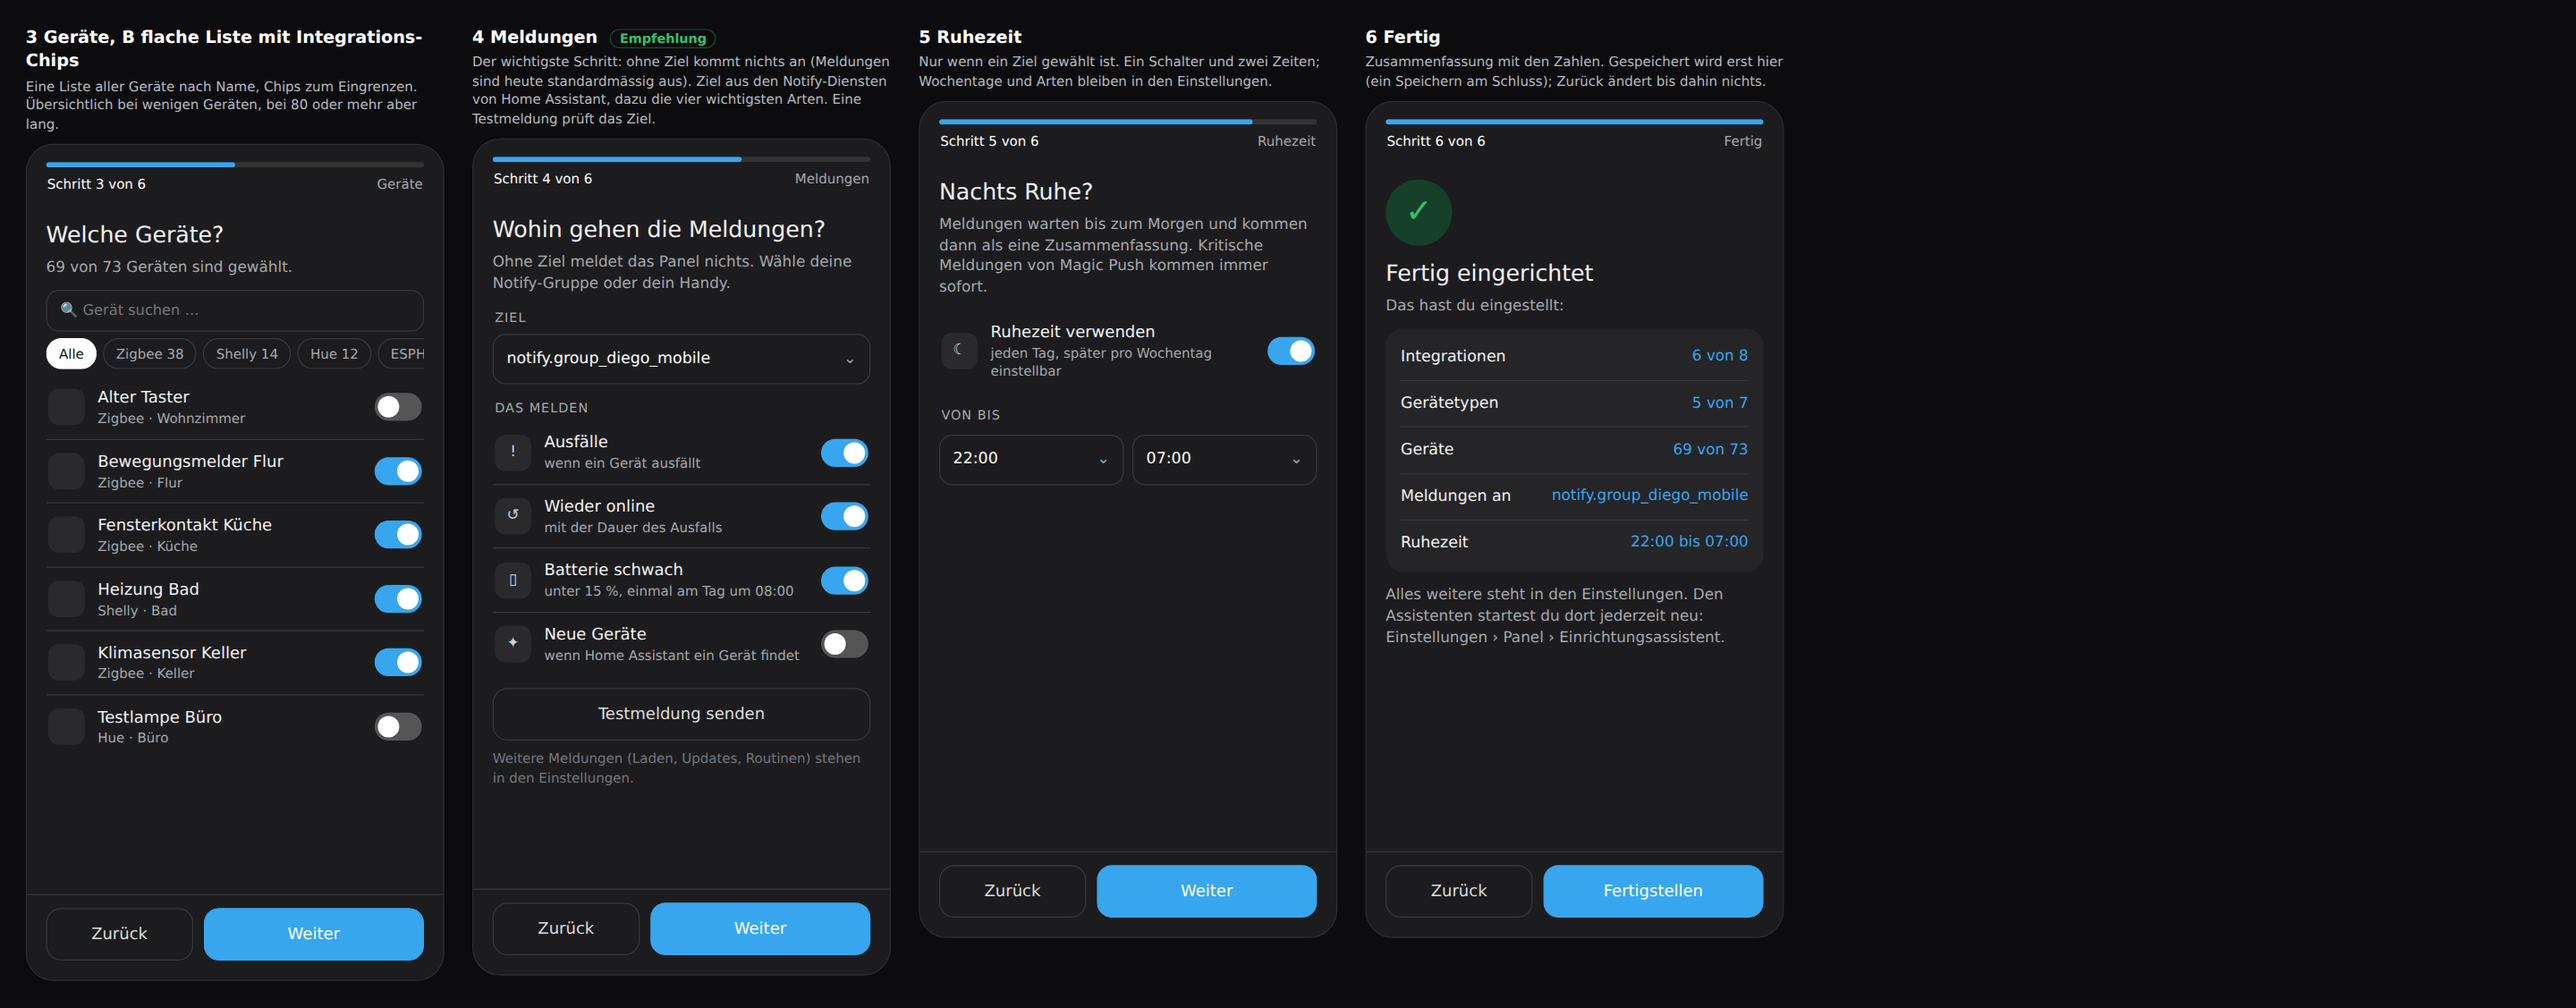
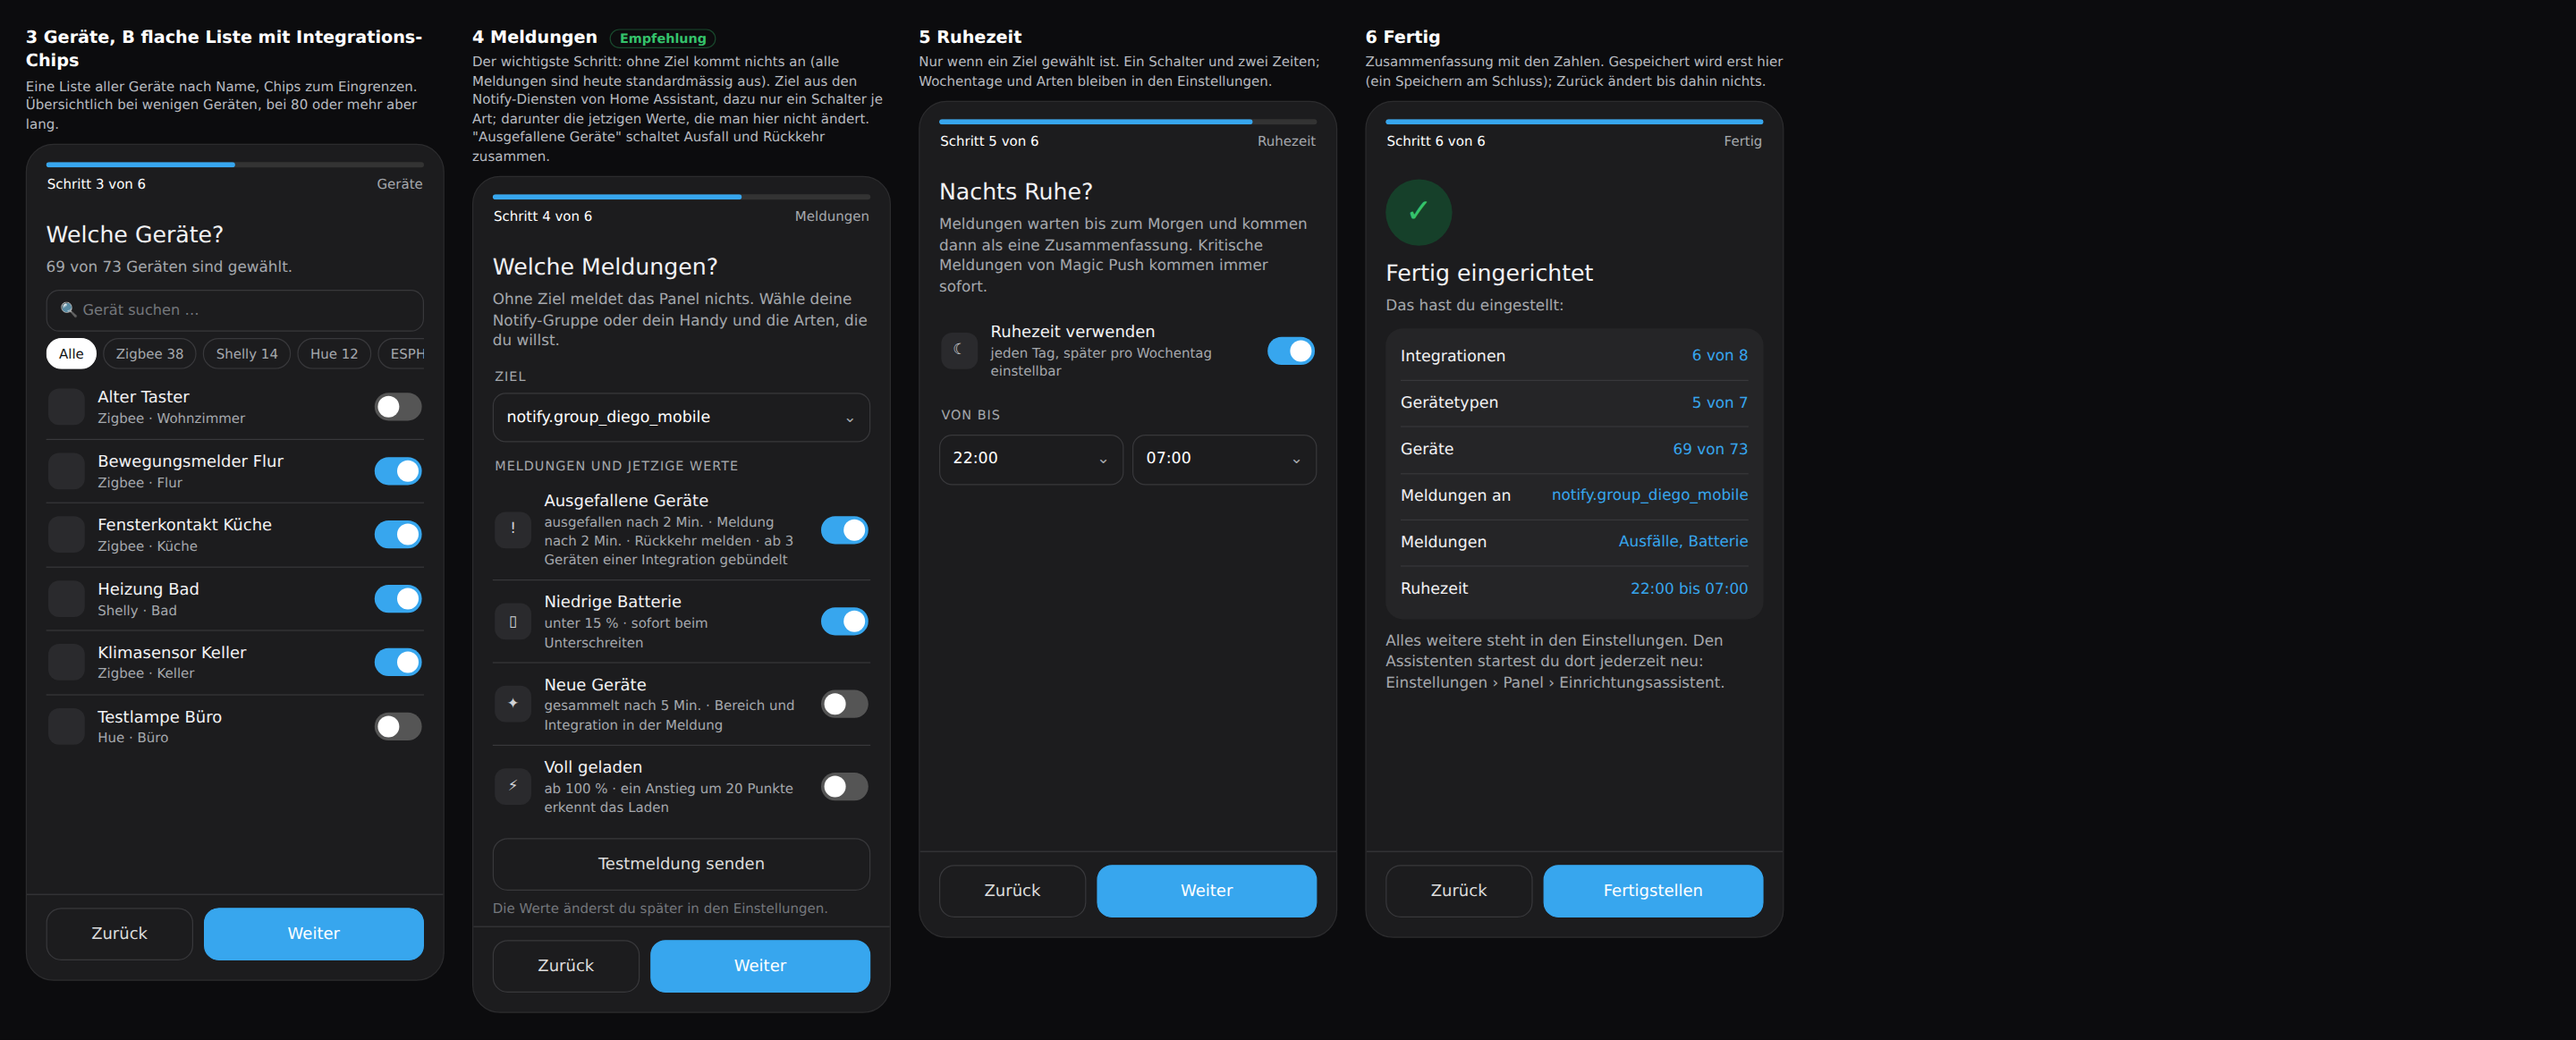
Mockups Einrichtungsassistent: Schritt Meldungen mit Schalter je Art und jetzigen Werten
Claude-Session: https://claude.ai/code/session_01U1q7hu4Br2u4E6fFdEJMgU

diff --git a/docs/mockups/wizard-v1/src/2.html b/docs/mockups/wizard-v1/src/2.html
@@ -1,10 +1,10 @@
 <!doctype html><meta charset=utf-8><link rel=stylesheet href=base.css><link rel=stylesheet href=extra.css><link rel=stylesheet href=wizard.css><body><div class=row>
 <div class=col><div class=cap>3 Geräte, B flache Liste mit Integrations-Chips<small>Eine Liste aller Geräte nach Name, Chips zum Eingrenzen. Übersichtlich bei wenigen Geräten, bei 80 oder mehr aber lang.</small></div>
 <div class="wz"><div class=top><div class=prog><i style="width:50%"></i></div><div class=stp><span><b>Schritt 3 von 6</b></span><span>Geräte</span></div></div><div class=bd><h1 style="font-size:21px">Welche Geräte?</h1><p>69 von 73 Geräten sind gewählt.</p><div class=sr>🔍 Gerät suchen …</div><div class=chips style="margin:2px 0 6px"><span class=on>Alle</span><span>Zigbee 38</span><span>Shelly 14</span><span>Hue 12</span><span>ESPHome 6</span></div><div class=lst><div class=li><div class=ic></div><div class=nm>Alter Taster<small>Zigbee · Wohnzimmer</small></div><div class="tg"></div></div><div class=li><div class=ic></div><div class=nm>Bewegungsmelder Flur<small>Zigbee · Flur</small></div><div class="tg on"></div></div><div class=li><div class=ic></div><div class=nm>Fensterkontakt Küche<small>Zigbee · Küche</small></div><div class="tg on"></div></div><div class=li><div class=ic></div><div class=nm>Heizung Bad<small>Shelly · Bad</small></div><div class="tg on"></div></div><div class=li><div class=ic></div><div class=nm>Klimasensor Keller<small>Zigbee · Keller</small></div><div class="tg on"></div></div><div class=li><div class=ic></div><div class=nm>Testlampe Büro<small>Hue · Büro</small></div><div class="tg"></div></div></div></div><div class=ft><div class=btn>Zurück</div><div class="btn p">Weiter</div></div></div></div>
-<div class=col><div class=cap>4 Meldungen <em>Empfehlung</em><small>Der wichtigste Schritt: ohne Ziel kommt nichts an (Meldungen sind heute standardmässig aus). Ziel aus den Notify-Diensten von Home Assistant, dazu die vier wichtigsten Arten. Eine Testmeldung prüft das Ziel.</small></div>
-<div class="wz"><div class=top><div class=prog><i style="width:66%"></i></div><div class=stp><span><b>Schritt 4 von 6</b></span><span>Meldungen</span></div></div><div class=bd><h1 style="font-size:21px">Wohin gehen die Meldungen?</h1><p>Ohne Ziel meldet das Panel nichts. Wähle deine Notify-Gruppe oder dein Handy.</p><div class=lab>Ziel</div><div class=sel><span>notify.group_diego_mobile</span><u>⌄</u></div><div class=lab>Das melden</div><div class=lst><div class=li><div class=ic>!</div><div class=nm>Ausfälle<small>wenn ein Gerät ausfällt</small></div><div class="tg on"></div></div><div class=li><div class=ic>↺</div><div class=nm>Wieder online<small>mit der Dauer des Ausfalls</small></div><div class="tg on"></div></div><div class=li><div class=ic>▯</div><div class=nm>Batterie schwach<small>unter 15 %, einmal am Tag um 08:00</small></div><div class="tg on"></div></div><div class=li><div class=ic>✦</div><div class=nm>Neue Geräte<small>wenn Home Assistant ein Gerät findet</small></div><div class="tg"></div></div></div><div class=two style="margin-top:12px"><div class=btn>Testmeldung senden</div></div><p style="font-size:12.5px;color:var(--t3);margin-top:8px">Weitere Meldungen (Laden, Updates, Routinen) stehen in den Einstellungen.</p></div><div class=ft><div class=btn>Zurück</div><div class="btn p">Weiter</div></div></div></div>
+<div class=col><div class=cap>4 Meldungen <em>Empfehlung</em><small>Der wichtigste Schritt: ohne Ziel kommt nichts an (alle Meldungen sind heute standardmässig aus). Ziel aus den Notify-Diensten von Home Assistant, dazu nur ein Schalter je Art; darunter die jetzigen Werte, die man hier nicht ändert. "Ausgefallene Geräte" schaltet Ausfall und Rückkehr zusammen.</small></div>
+<div class="wz"><div class=top><div class=prog><i style="width:66%"></i></div><div class=stp><span><b>Schritt 4 von 6</b></span><span>Meldungen</span></div></div><div class=bd><h1 style="font-size:21px">Welche Meldungen?</h1><p>Ohne Ziel meldet das Panel nichts. Wähle deine Notify-Gruppe oder dein Handy und die Arten, die du willst.</p><div class=lab>Ziel</div><div class=sel><span>notify.group_diego_mobile</span><u>⌄</u></div><div class=lab>Meldungen und jetzige Werte</div><div class=lst><div class=li><div class=ic>!</div><div class=nm>Ausgefallene Geräte<small>ausgefallen nach 2 Min. · Meldung nach 2 Min. · Rückkehr melden · ab 3 Geräten einer Integration gebündelt</small></div><div class="tg on"></div></div><div class=li><div class=ic>▯</div><div class=nm>Niedrige Batterie<small>unter 15 % · sofort beim Unterschreiten</small></div><div class="tg on"></div></div><div class=li><div class=ic>✦</div><div class=nm>Neue Geräte<small>gesammelt nach 5 Min. · Bereich und Integration in der Meldung</small></div><div class="tg"></div></div><div class=li><div class=ic>⚡</div><div class=nm>Voll geladen<small>ab 100 % · ein Anstieg um 20 Punkte erkennt das Laden</small></div><div class="tg"></div></div></div><div class=two style="margin-top:10px"><div class=btn>Testmeldung senden</div></div><p style="font-size:12.5px;color:var(--t3);margin-top:8px">Die Werte änderst du später in den Einstellungen.</p></div><div class=ft><div class=btn>Zurück</div><div class="btn p">Weiter</div></div></div></div>
 <div class=col><div class=cap>5 Ruhezeit<small>Nur wenn ein Ziel gewählt ist. Ein Schalter und zwei Zeiten; Wochentage und Arten bleiben in den Einstellungen.</small></div>
 <div class="wz"><div class=top><div class=prog><i style="width:83%"></i></div><div class=stp><span><b>Schritt 5 von 6</b></span><span>Ruhezeit</span></div></div><div class=bd><h1 style="font-size:21px">Nachts Ruhe?</h1><p>Meldungen warten bis zum Morgen und kommen dann als eine Zusammenfassung. Kritische Meldungen von Magic Push kommen immer sofort.</p><div class=lst><div class=li><div class=ic>☾</div><div class=nm>Ruhezeit verwenden<small>jeden Tag, später pro Wochentag einstellbar</small></div><div class="tg on"></div></div></div><div class=lab>Von bis</div><div class=two><div class=sel style="flex:1"><span>22:00</span><u>⌄</u></div><div class=sel style="flex:1"><span>07:00</span><u>⌄</u></div></div></div><div class=ft><div class=btn>Zurück</div><div class="btn p">Weiter</div></div></div></div>
 <div class=col><div class=cap>6 Fertig<small>Zusammenfassung mit den Zahlen. Gespeichert wird erst hier (ein Speichern am Schluss); Zurück ändert bis dahin nichts.</small></div>
-<div class="wz"><div class=top><div class=prog><i style="width:100%"></i></div><div class=stp><span><b>Schritt 6 von 6</b></span><span>Fertig</span></div></div><div class=bd><div class=chk>✓</div><h1 style="font-size:21px">Fertig eingerichtet</h1><p>Das hast du eingestellt:</p><div class=sum><div class=li><div class=nm>Integrationen</div><b>6 von 8</b></div><div class=li><div class=nm>Gerätetypen</div><b>5 von 7</b></div><div class=li><div class=nm>Geräte</div><b>69 von 73</b></div><div class=li><div class=nm>Meldungen an</div><b>notify.group_diego_mobile</b></div><div class=li><div class=nm>Ruhezeit</div><b>22:00 bis 07:00</b></div></div><p style="margin-top:12px">Alles weitere steht in den Einstellungen. Den Assistenten startest du dort jederzeit neu: Einstellungen › Panel › Einrichtungsassistent.</p></div><div class=ft><div class=btn>Zurück</div><div class="btn p">Fertigstellen</div></div></div></div>
+<div class="wz"><div class=top><div class=prog><i style="width:100%"></i></div><div class=stp><span><b>Schritt 6 von 6</b></span><span>Fertig</span></div></div><div class=bd><div class=chk>✓</div><h1 style="font-size:21px">Fertig eingerichtet</h1><p>Das hast du eingestellt:</p><div class=sum><div class=li><div class=nm>Integrationen</div><b>6 von 8</b></div><div class=li><div class=nm>Gerätetypen</div><b>5 von 7</b></div><div class=li><div class=nm>Geräte</div><b>69 von 73</b></div><div class=li><div class=nm>Meldungen an</div><b>notify.group_diego_mobile</b></div><div class=li><div class=nm>Meldungen</div><b>Ausfälle, Batterie</b></div><div class=li><div class=nm>Ruhezeit</div><b>22:00 bis 07:00</b></div></div><p style="margin-top:12px">Alles weitere steht in den Einstellungen. Den Assistenten startest du dort jederzeit neu: Einstellungen › Panel › Einrichtungsassistent.</p></div><div class=ft><div class=btn>Zurück</div><div class="btn p">Fertigstellen</div></div></div></div>
 </div>

diff --git a/docs/mockups/wizard-v1/src/3.html b/docs/mockups/wizard-v1/src/3.html
@@ -10,5 +10,5 @@
 <div class=col><div class=cap>Desktop: Schritt 3 Geräte (A)<small>Gruppen mit Schalter und Suche; die Liste scrollt im Popup.</small></div>
 <div class="wz d"><div class=top><div class=prog><i style="width:50%"></i></div><div class=stp><span><b>Schritt 3 von 6</b></span><span>Geräte</span></div></div><div class=bd><h1 style="font-size:21px">Welche Geräte?</h1><p>69 von 73 Geräten sind gewählt. Nimm Geräte heraus, die du nicht überwachen willst.</p><div class=sr>🔍 Gerät suchen …</div><div class=grp><span class=ch>⌄</span>▤ Zigbee Home Automation<span class=cn>34 von 38</span><div class="tg on"></div></div><div class=sub><div class=li><div class=ic></div><div class=nm>Bewegungsmelder Flur<small>Flur</small></div><div class="tg on"></div></div><div class=li><div class=ic></div><div class=nm>Temperatursensor Keller<small>Keller</small></div><div class="tg on"></div></div><div class=li><div class=ic></div><div class=nm>Fensterkontakt Küche<small>Küche</small></div><div class="tg on"></div></div><div class=li><div class=ic></div><div class=nm>Testlampe Büro<small>Büro</small></div><div class="tg"></div></div><div class=li><div class=ic></div><div class=nm>Alter Taster<small>Wohnzimmer</small></div><div class="tg"></div></div></div><div class=grp><span class=ch>›</span>▤ Shelly<span class=cn>14 von 14</span><div class="tg on"></div></div><div class=grp><span class=ch>›</span>▤ Philips Hue<span class=cn>12 von 12</span><div class="tg on"></div></div><div class=grp><span class=ch>›</span>▤ ESPHome<span class=cn>6 von 6</span><div class="tg on"></div></div><div class=grp><span class=ch>›</span>▤ Sonos<span class=cn>3 von 3</span><div class="tg on"></div></div></div><div class=ft><div class=btn>Zurück</div><div class="btn p">Weiter</div></div></div></div>
 <div class=col><div class=cap>Desktop: Schritt 4 Meldungen<small>Mit Ziel und Testmeldung.</small></div>
-<div class="wz d"><div class=top><div class=prog><i style="width:66%"></i></div><div class=stp><span><b>Schritt 4 von 6</b></span><span>Meldungen</span></div></div><div class=bd><h1 style="font-size:21px">Wohin gehen die Meldungen?</h1><p>Ohne Ziel meldet das Panel nichts. Wähle deine Notify-Gruppe oder dein Handy.</p><div class=lab>Ziel</div><div class=sel><span>notify.group_diego_mobile</span><u>⌄</u></div><div class=lab>Das melden</div><div class=lst><div class=li><div class=ic>!</div><div class=nm>Ausfälle<small>wenn ein Gerät ausfällt</small></div><div class="tg on"></div></div><div class=li><div class=ic>↺</div><div class=nm>Wieder online<small>mit der Dauer des Ausfalls</small></div><div class="tg on"></div></div><div class=li><div class=ic>▯</div><div class=nm>Batterie schwach<small>unter 15 %, einmal am Tag um 08:00</small></div><div class="tg on"></div></div><div class=li><div class=ic>✦</div><div class=nm>Neue Geräte<small>wenn Home Assistant ein Gerät findet</small></div><div class="tg"></div></div></div><div class=two style="margin-top:12px"><div class=btn>Testmeldung senden</div></div><p style="font-size:12.5px;color:var(--t3);margin-top:8px">Weitere Meldungen (Laden, Updates, Routinen) stehen in den Einstellungen.</p></div><div class=ft><div class=btn>Zurück</div><div class="btn p">Weiter</div></div></div></div>
+<div class="wz d"><div class=top><div class=prog><i style="width:66%"></i></div><div class=stp><span><b>Schritt 4 von 6</b></span><span>Meldungen</span></div></div><div class=bd><h1 style="font-size:21px">Welche Meldungen?</h1><p>Ohne Ziel meldet das Panel nichts. Wähle deine Notify-Gruppe oder dein Handy und die Arten, die du willst.</p><div class=lab>Ziel</div><div class=sel><span>notify.group_diego_mobile</span><u>⌄</u></div><div class=lab>Meldungen und jetzige Werte</div><div class=lst><div class=li><div class=ic>!</div><div class=nm>Ausgefallene Geräte<small>ausgefallen nach 2 Min. · Meldung nach 2 Min. · Rückkehr melden · ab 3 Geräten einer Integration gebündelt</small></div><div class="tg on"></div></div><div class=li><div class=ic>▯</div><div class=nm>Niedrige Batterie<small>unter 15 % · sofort beim Unterschreiten</small></div><div class="tg on"></div></div><div class=li><div class=ic>✦</div><div class=nm>Neue Geräte<small>gesammelt nach 5 Min. · Bereich und Integration in der Meldung</small></div><div class="tg"></div></div><div class=li><div class=ic>⚡</div><div class=nm>Voll geladen<small>ab 100 % · ein Anstieg um 20 Punkte erkennt das Laden</small></div><div class="tg"></div></div></div><div class=two style="margin-top:10px"><div class=btn>Testmeldung senden</div></div><p style="font-size:12.5px;color:var(--t3);margin-top:8px">Die Werte änderst du später in den Einstellungen.</p></div><div class=ft><div class=btn>Zurück</div><div class="btn p">Weiter</div></div></div></div>
 </div>

diff --git a/docs/mockups/wizard-v1/src/build.py b/docs/mockups/wizard-v1/src/build.py
@@ -90,15 +90,19 @@ dev_body_B = (
     + '</div>'
 )
 
+def row(ic, name, vals, on):
+    return f'<div class=li><div class=ic>{ic}</div><div class=nm>{name}<small>{vals}</small></div><div class="tg{" on" if on else ""}"></div></div>'
+
+
 notify_body = (
-    '<h1 style="font-size:21px">Wohin gehen die Meldungen?</h1><p>Ohne Ziel meldet das Panel nichts. Wähle deine Notify-Gruppe oder dein Handy.</p>'
-    '<div class=lab>Ziel</div><div class=sel><span>notify.group_diego_mobile</span><u>⌄</u></div><div class=lab>Das melden</div><div class=lst>'
-    + li('!', 'Ausfälle', 'wenn ein Gerät ausfällt', True)
-    + li('↺', 'Wieder online', 'mit der Dauer des Ausfalls', True)
-    + li('▯', 'Batterie schwach', 'unter 15 %, einmal am Tag um 08:00', True)
-    + li('✦', 'Neue Geräte', 'wenn Home Assistant ein Gerät findet', False)
-    + '</div><div class=two style="margin-top:12px"><div class=btn>Testmeldung senden</div></div>'
-    '<p style="font-size:12.5px;color:var(--t3);margin-top:8px">Weitere Meldungen (Laden, Updates, Routinen) stehen in den Einstellungen.</p>'
+    '<h1 style="font-size:21px">Welche Meldungen?</h1><p>Ohne Ziel meldet das Panel nichts. Wähle deine Notify-Gruppe oder dein Handy und die Arten, die du willst.</p>'
+    '<div class=lab>Ziel</div><div class=sel><span>notify.group_diego_mobile</span><u>⌄</u></div><div class=lab>Meldungen und jetzige Werte</div><div class=lst>'
+    + row('!', 'Ausgefallene Geräte', 'ausgefallen nach 2 Min. · Meldung nach 2 Min. · Rückkehr melden · ab 3 Geräten einer Integration gebündelt', True)
+    + row('▯', 'Niedrige Batterie', 'unter 15 % · sofort beim Unterschreiten', True)
+    + row('✦', 'Neue Geräte', 'gesammelt nach 5 Min. · Bereich und Integration in der Meldung', False)
+    + row('⚡', 'Voll geladen', 'ab 100 % · ein Anstieg um 20 Punkte erkennt das Laden', False)
+    + '</div><div class=two style="margin-top:10px"><div class=btn>Testmeldung senden</div></div>'
+    '<p style="font-size:12.5px;color:var(--t3);margin-top:8px">Die Werte änderst du später in den Einstellungen.</p>'
 )
 quiet_body = (
     '<h1 style="font-size:21px">Nachts Ruhe?</h1><p>Meldungen warten bis zum Morgen und kommen dann als eine Zusammenfassung. Kritische Meldungen von Magic Push kommen immer sofort.</p><div class=lst>'
@@ -108,7 +112,7 @@ quiet_body = (
 done_body = (
     '<div class=chk>✓</div><h1 style="font-size:21px">Fertig eingerichtet</h1><p>Das hast du eingestellt:</p>'
     '<div class=sum><div class=li><div class=nm>Integrationen</div><b>6 von 8</b></div><div class=li><div class=nm>Gerätetypen</div><b>5 von 7</b></div>'
-    '<div class=li><div class=nm>Geräte</div><b>69 von 73</b></div><div class=li><div class=nm>Meldungen an</div><b>notify.group_diego_mobile</b></div>'
+    '<div class=li><div class=nm>Geräte</div><b>69 von 73</b></div><div class=li><div class=nm>Meldungen an</div><b>notify.group_diego_mobile</b></div><div class=li><div class=nm>Meldungen</div><b>Ausfälle, Batterie</b></div>'
     '<div class=li><div class=nm>Ruhezeit</div><b>22:00 bis 07:00</b></div></div>'
     '<p style="margin-top:12px">Alles weitere steht in den Einstellungen. Den Assistenten startest du dort jederzeit neu: Einstellungen › Panel › Einrichtungsassistent.</p>'
 )
@@ -125,7 +129,7 @@ open('1.html', 'w').write(b)
 
 b = HEAD
 b += col('3 Geräte, B flache Liste mit Integrations-Chips', 'Eine Liste aller Geräte nach Name, Chips zum Eingrenzen. Übersichtlich bei wenigen Geräten, bei 80 oder mehr aber lang.', wz(3, TOT, 'Geräte', dev_body_B, BACK + NEXT))
-b += col('4 Meldungen', 'Der wichtigste Schritt: ohne Ziel kommt nichts an (Meldungen sind heute standardmässig aus). Ziel aus den Notify-Diensten von Home Assistant, dazu die vier wichtigsten Arten. Eine Testmeldung prüft das Ziel.', wz(4, TOT, 'Meldungen', notify_body, BACK + NEXT), True)
+b += col('4 Meldungen', 'Der wichtigste Schritt: ohne Ziel kommt nichts an (alle Meldungen sind heute standardmässig aus). Ziel aus den Notify-Diensten von Home Assistant, dazu nur ein Schalter je Art; darunter die jetzigen Werte, die man hier nicht ändert. "Ausgefallene Geräte" schaltet Ausfall und Rückkehr zusammen.', wz(4, TOT, 'Meldungen', notify_body, BACK + NEXT), True)
 b += col('5 Ruhezeit', 'Nur wenn ein Ziel gewählt ist. Ein Schalter und zwei Zeiten; Wochentage und Arten bleiben in den Einstellungen.', wz(5, TOT, 'Ruhezeit', quiet_body, BACK + NEXT))
 b += col('6 Fertig', 'Zusammenfassung mit den Zahlen. Gespeichert wird erst hier (ein Speichern am Schluss); Zurück ändert bis dahin nichts.', wz(6, TOT, 'Fertig', done_body, BACK + '<div class="btn p">Fertigstellen</div>'))
 b += '</div>'
